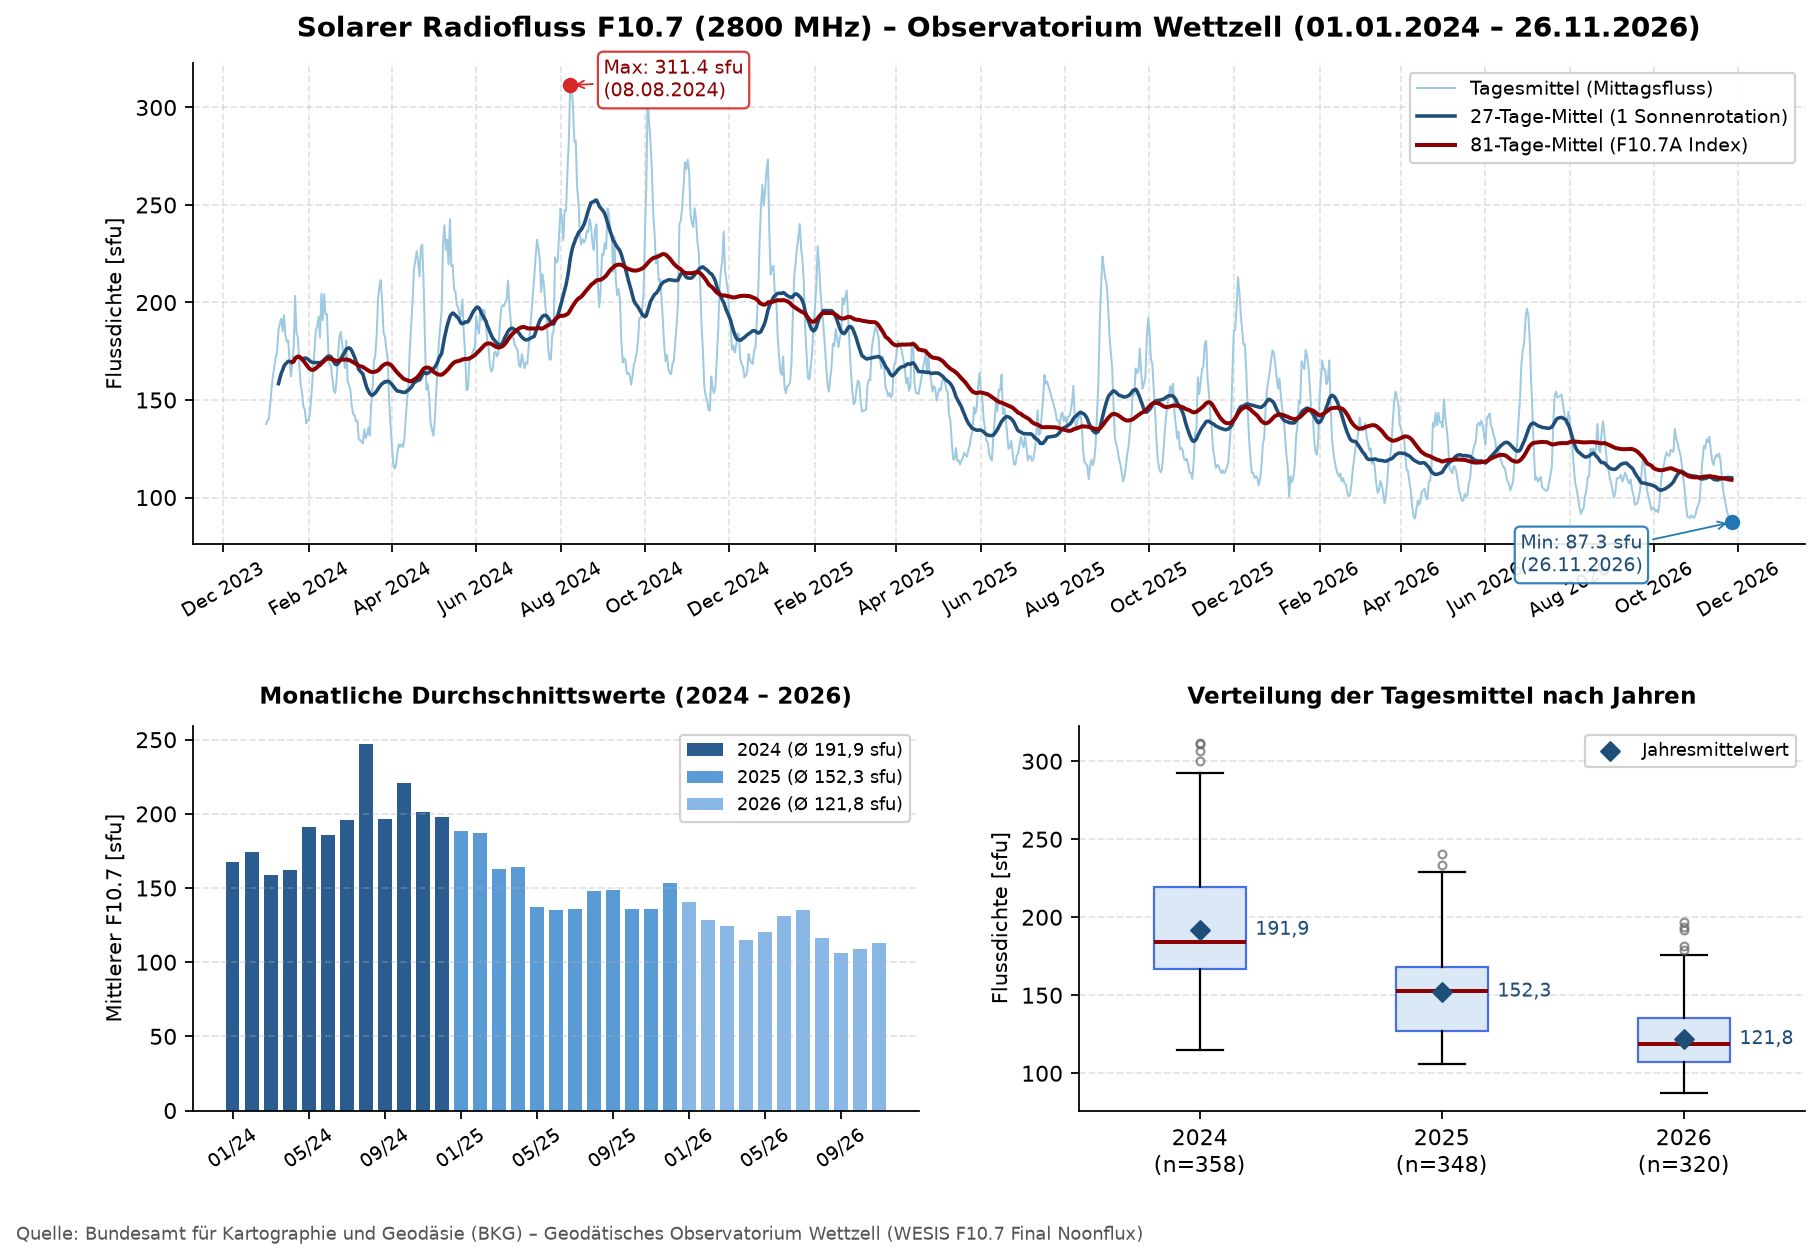
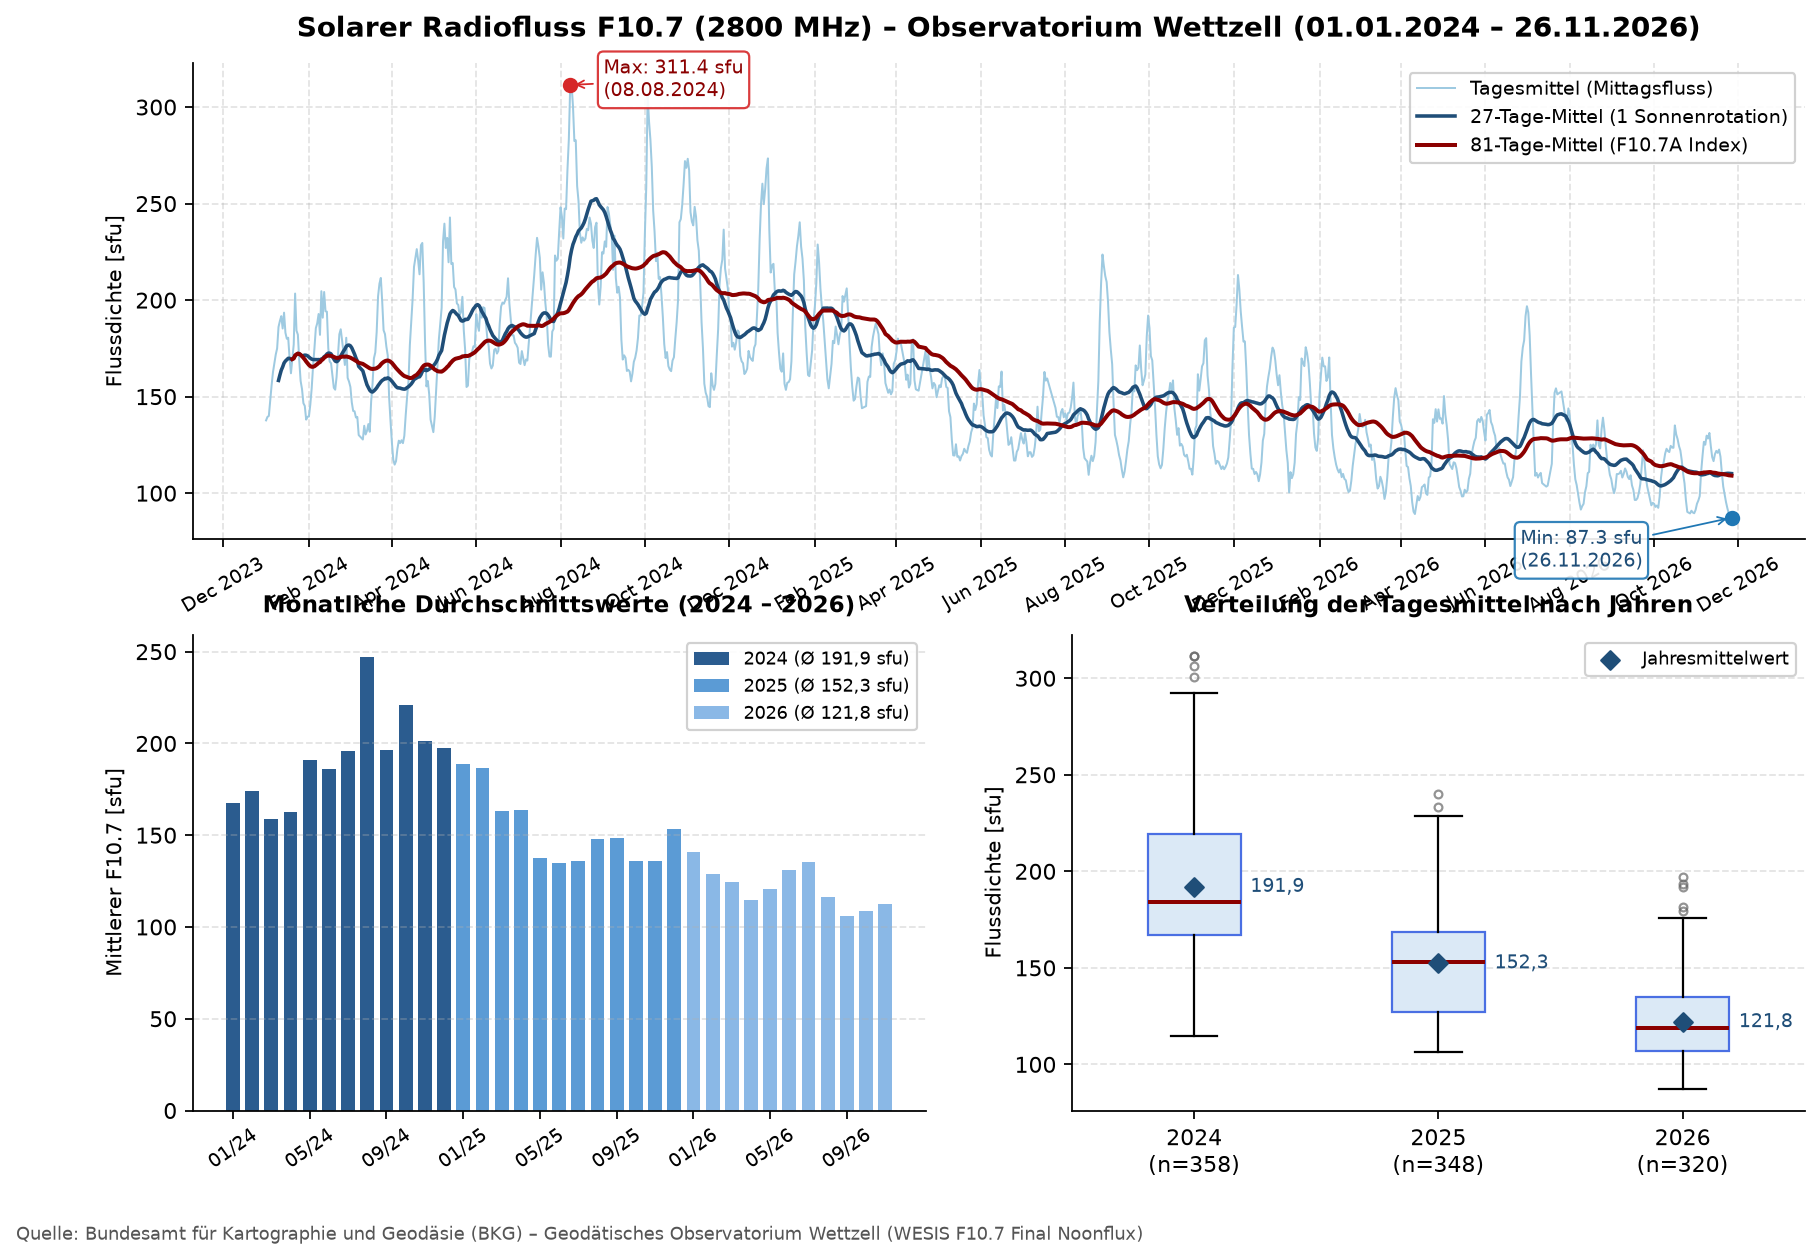
Update Solar Flux Diagramme 4a48e182cdf4c8dfc49a279186bcfab1c0fb3af5

diff --git a/index.html b/index.html
@@ -3,25 +3,39 @@
 <head>
   <meta charset="UTF-8">
   <meta name="viewport" content="width=device-width, initial-scale=1.0">
-  <title>Solar Flux Index (F10.7) – Observatorium Wettzell</title>
+  <title>Solar Flux &amp; Weltraumwetter – Observatorium Wettzell &amp; GFZ Potsdam</title>
   <style>
     body {
       font-family: -apple-system, BlinkMacSystemFont, "Segoe UI", Roboto, Arial, sans-serif;
-      max-width: 1100px;
+      max-width: 1120px;
       margin: 2rem auto;
       padding: 0 1rem;
       color: #222;
       background-color: #f8f9fa;
     }
     h1 {
-      font-size: 1.6rem;
+      font-size: 1.65rem;
       color: #1f4e78;
       margin-bottom: 0.3rem;
     }
     p.subtitle {
       color: #555;
       margin-top: 0;
+      margin-bottom: 1.2rem;
+    }
+    .status-bar {
+      display: flex;
+      flex-wrap: wrap;
+      gap: 1rem;
+      background: #eef4fa;
+      border-left: 4px solid #1f4e78;
+      padding: 0.9rem 1.2rem;
+      border-radius: 6px;
       margin-bottom: 2rem;
+      font-size: 0.95rem;
+    }
+    .status-item {
+      margin-right: 1.5rem;
     }
     .card {
       background: #fff;
@@ -46,11 +60,22 @@
   </style>
 </head>
 <body>
-  <h1>Solarer Radiofluss F10.7 (2800 MHz)</h1>
-  <p class="subtitle">Automatisch aktualisierte Auswertung – Geodätisches Observatorium Wettzell (BKG)</p>
+  <h1>Solarer Radiofluss F10.7 &amp; Weltraumwetter</h1>
+  <p class="subtitle">Automatisch aktualisierte Auswertung – Geodätisches Observatorium Wettzell (BKG) &amp; GFZ Potsdam</p>
+
+  <div class="status-bar">
+    <div class="status-item"><strong>Letzte Aktualisierung:</strong> 27.11.2026 um 21:23 Uhr (CET)</div>
+    <div class="status-item"><strong>Aktueller F10.7 (26.11.):</strong> 87.3 sfu</div>
+    <div class="status-item"><strong>Sonnenflecken (SN):</strong> 29</div>
+    <div class="status-item"><strong>Ap-Index:</strong> 4</div>
+  </div>
 
   <div class="card">
     <img src="sfu_30tage.png" alt="Solar Flux F10.7 der letzten 30 Tage">
+  </div>
+
+  <div class="card">
+    <img src="weltraumwetter_30tage.png" alt="Sonnenfleckenzahl und Geomagnetischer Ap-Index der letzten 30 Tage">
   </div>
 
   <div class="card">
@@ -62,7 +87,7 @@
   </div>
 
   <footer>
-    Datenquelle: Bundesamt für Kartographie und Geodäsie (BKG) – WESIS F10.7 Final Noonflux | Aktualisierung täglich via GitHub Actions
+    Quellen: Bundesamt für Kartographie und Geodäsie (BKG Wettzell) &amp; GFZ Helmholtz-Zentrum Potsdam | Aktualisierung täglich via GitHub Actions
   </footer>
 </body>
 </html>

diff --git a/create_chart.py b/create_chart.py
@@ -2,12 +2,12 @@ import pandas as pd
 import numpy as np
 import matplotlib.pyplot as plt
 import matplotlib.dates as mdates
+from datetime import datetime
+from zoneinfo import ZoneInfo
 
-dateiname = "clt_f107_nf_final.txt"
-
-# 1. Datei zeilenweise einlesen
+# 1. Wettzell-Daten einlesen
 zeilen = []
-with open(dateiname, "r", encoding="latin1") as f:
+with open("clt_f107_nf_final.txt", "r", encoding="latin1") as f:
     for line in f:
         line = line.strip()
         if not line or line.startswith("#"):
@@ -26,7 +26,6 @@ df["hour"] = pd.to_numeric(df["hour"], errors="coerce")
 df["sfu"] = pd.to_numeric(df["sfu"], errors="coerce")
 df = df.dropna(subset=["date", "sfu"])
 
-# Tageswerte bilden (bevorzugt 12 Uhr UTC Noonflux, sonst Tagesmittel)
 df_noon = df[df["hour"] == 12].groupby("date", as_index=False)["sfu"].mean()
 df_all = df.groupby("date", as_index=False)["sfu"].mean()
 df_daily = pd.merge(df_all, df_noon, on="date", how="left", suffixes=("_all", "_noon"))
@@ -34,10 +33,9 @@ df_daily["sfu"] = df_daily["sfu_noon"].fillna(df_daily["sfu_all"])
 df_daily = df_daily[["date", "sfu"]].sort_values("date").reset_index(drop=True)
 
 letztes_datum = df_daily["date"].max()
+aktueller_sfu = float(df_daily.loc[df_daily["date"] == letztes_datum, "sfu"].mean())
 
-# ==============================================================================
-# DIAGRAMM 1: Letzte 30 Tage
-# ==============================================================================
+# DIAGRAMM 1: Letzte 30 Tage (Wettzell F10.7)
 start_30 = letztes_datum - pd.Timedelta(days=29)
 df_30 = df_daily[df_daily["date"] >= start_30]
 
@@ -59,9 +57,7 @@ plt.tight_layout()
 plt.savefig("sfu_30tage.png")
 plt.close(fig1)
 
-# ==============================================================================
 # DIAGRAMM 2: Gesamtauswertung ab 01.01.2024
-# ==============================================================================
 df_2024 = df_daily[df_daily["date"] >= "2024-01-01"].copy().reset_index(drop=True)
 df_2024["ma27"] = df_2024["sfu"].rolling(window=27, min_periods=10).mean()
 df_2024["ma81"] = df_2024["sfu"].rolling(window=81, min_periods=20).mean()
@@ -69,13 +65,11 @@ df_2024["ma81"] = df_2024["sfu"].rolling(window=81, min_periods=20).mean()
 fig2 = plt.figure(figsize=(13, 8.5), dpi=160)
 gs = fig2.add_gridspec(2, 2, height_ratios=[1.25, 1], hspace=0.42, wspace=0.22)
 
-# --- Oben: Zeitverlauf + 27d / 81d Mittel ---
-ax_top = fig2.add_subplot(gs[0, :])
+ax_top = plt.subplot2grid((2, 2), (0, 0), colspan=2, fig=fig2)
 ax_top.plot(df_2024["date"], df_2024["sfu"], color="#9ecae1", linewidth=0.9, label="Tagesmittel (Mittagsfluss)")
 ax_top.plot(df_2024["date"], df_2024["ma27"], color="#1f4e78", linewidth=1.6, label="27-Tage-Mittel (1 Sonnenrotation)")
 ax_top.plot(df_2024["date"], df_2024["ma81"], color="#8b0000", linewidth=1.8, label="81-Tage-Mittel (F10.7A Index)")
 
-# Max & Min annotieren
 idx_max = df_2024["sfu"].idxmax()
 idx_min = df_2024["sfu"].idxmin()
 row_max = df_2024.loc[idx_max]
@@ -114,8 +108,7 @@ ax_top.spines["top"].set_visible(False)
 ax_top.spines["right"].set_visible(False)
 ax_top.legend(loc="upper right", fontsize=8.5, framealpha=0.9)
 
-# --- Unten links: Monatliche Durchschnittswerte ---
-ax_bl = fig2.add_subplot(gs[1, 0])
+ax_bl = plt.subplot2grid((2, 2), (1, 0), fig=fig2)
 df_2024["year"] = df_2024["date"].dt.year
 df_2024["ym"] = df_2024["date"].dt.to_period("M")
 monthly = df_2024.groupby(["year", "ym"], as_index=False)["sfu"].mean().sort_values("ym")
@@ -136,15 +129,14 @@ tick_pos = list(range(0, len(monthly), 4))
 tick_lbl = [monthly["ym"].iloc[i].strftime("%m/%y") for i in tick_pos]
 ax_bl.set_xticks(tick_pos)
 ax_bl.set_xticklabels(tick_lbl, rotation=35, fontsize=8.5)
-ax_bl.set_title(f"Monatliche Durchschnittswerte (2024 – {jahre[-1]})", fontsize=10.5, fontweight="bold", pad=10)
+ax_bl.set_title(f"Monatliche Durchschnittswerte (2024 – {max(jahre)})", fontsize=10.5, fontweight="bold", pad=10)
 ax_bl.set_ylabel("Mittlerer F10.7 [sfu]", fontsize=9.5)
 ax_bl.grid(axis="y", linestyle="--", alpha=0.35)
 ax_bl.spines["top"].set_visible(False)
 ax_bl.spines["right"].set_visible(False)
 ax_bl.legend(loc="upper right", fontsize=8, framealpha=0.9)
 
-# --- Unten rechts: Boxplot nach Jahren ---
-ax_br = fig2.add_subplot(gs[1, 1])
+ax_br = plt.subplot2grid((2, 2), (1, 1), fig=fig2)
 daten_jahre = [df_2024[df_2024["year"] == j]["sfu"].values for j in jahre]
 labels_jahre = [f"{j}\n(n={len(d)})" for j, d in zip(jahre, daten_jahre)]
 
@@ -179,56 +171,48 @@ fig2.text(
 
 plt.savefig("sfu_gesamt_auswertung.png", bbox_inches="tight")
 plt.close(fig2)
-print("Beide Diagramme wurden erfolgreich erstellt!")
-
-# ==============================================================================
-# DIAGRAMM 3: Historische Sonnenzyklen seit 1947 (GFZ Potsdam / Penticton)
-# ==============================================================================
-hist_rows = []
-
+# 2. GFZ-Daten einlesen (F10.7 seit 1947 + Ap-Index + Sonnenfleckenzahl SN)
+gfz_rows = []
 with open("gfz_since_1932.txt", "r", encoding="latin1") as f:
     for raw_line in f:
         line = raw_line.strip()
         if not line or line.startswith("#"):
             continue
         teile = line.split()
-        # Spalten im GFZ-Format: 0=YYYY, 1=MM, 2=DD, ..., 25=F10.7_obs, 26=F10.7_adj
         if len(teile) >= 27:
             y_str = teile.pop(0)
             m_str = teile.pop(0)
             d_str = teile.pop(0)
             if y_str.isdigit() and int(y_str) >= 1947:
-                # Nach 3x pop(0) liegt Spalte 26 (F10.7_adj) jetzt an Position 23
-                for _ in range(23):
+                for _ in range(20):
                     teile.pop(0)
-                val_str = teile.pop(0)
+                ap_str = teile.pop(0)
+                sn_str = teile.pop(0)
+                _ = teile.pop(0)
+                sfu_str = teile.pop(0)
                 try:
-                    sfu_val = float(val_str)
-                    if 50 < sfu_val < 600:
-                        hist_rows.append({
-                            "date": f"{y_str}-{m_str.zfill(2)}-{d_str.zfill(2)}",
-                            "sfu": sfu_val
-                        })
+                    gfz_rows.append({
+                        "date": f"{y_str}-{m_str.zfill(2)}-{d_str.zfill(2)}",
+                        "ap": float(ap_str),
+                        "sn": float(sn_str),
+                        "sfu": float(sfu_str)
+                    })
                 except ValueError:
                     pass
 
-print(f"GFZ-Langzeitdaten eingelesen: {len(hist_rows)} Tage ab 1947.")
+df_gfz = pd.DataFrame(gfz_rows)
+df_gfz["date"] = pd.to_datetime(df_gfz["date"], errors="coerce")
+df_gfz = df_gfz.dropna(subset=["date"])
 
-# Deine eigenen Wettzell-Tageswerte (df_daily) als aktuellste Daten anhängen
-df_wettzell_hist = df_daily[["date", "sfu"]].copy()
-df_wettzell_hist["date"] = df_wettzell_hist["date"].dt.strftime("%Y-%m-%d")
+# DIAGRAMM 3: Historische Sonnenzyklen seit 1947
+df_hist_sfu = df_gfz[(df_gfz["sfu"] > 50) & (df_gfz["sfu"] < 600)][["date", "sfu"]].copy()
+df_all_hist = pd.concat([df_hist_sfu, df_daily[["date", "sfu"]]], ignore_index=True)
 
-df_all_hist = pd.concat([pd.DataFrame(hist_rows), df_wettzell_hist], ignore_index=True)
-df_all_hist["date"] = pd.to_datetime(df_all_hist["date"], errors="coerce")
-df_all_hist = df_all_hist.dropna(subset=["date", "sfu"])
-
-# Tagesmittel und Glättung berechnen
 df_h_daily = df_all_hist.groupby("date", as_index=False)["sfu"].mean().sort_values("date").reset_index(drop=True)
 df_h_daily["ma81"] = df_h_daily["sfu"].rolling(window=81, min_periods=30, center=True).mean()
 df_h_daily["ma365"] = df_h_daily["sfu"].rolling(window=365, min_periods=150, center=True).mean()
 
 fig3, ax3 = plt.subplots(figsize=(13, 5.5), dpi=160)
-
 ax3.plot(df_h_daily["date"], df_h_daily["ma81"], color="#7fb3d5", linewidth=0.9, label="81-Tage-Mittel (F10.7A)")
 ax3.plot(df_h_daily["date"], df_h_daily["ma365"], color="#1f4e78", linewidth=2.0, label="365-Tage-Mittel (Zyklusverlauf)")
 
@@ -273,4 +257,151 @@ fig3.text(
 plt.tight_layout(rect=[0, 0.03, 1, 1])
 plt.savefig("sfu_zyklen_1947.png")
 plt.close(fig3)
-print("Historisches Zyklus-Diagramm erstellt!")
+
+# DIAGRAMM 4: Weltraumwetter der letzten 30 Tage (Sonnenflecken SN & Ap-Index)
+df_gfz_valid = df_gfz[(df_gfz["sn"] >= 0) & (df_gfz["ap"] >= 0)].sort_values("date")
+letztes_gfz = df_gfz_valid["date"].max()
+df_gfz_30 = df_gfz_valid[df_gfz_valid["date"] >= (letztes_gfz - pd.Timedelta(days=29))].copy()
+
+aktueller_sn = int(df_gfz_30["sn"].tail(1).mean())
+aktueller_ap = int(df_gfz_30["ap"].tail(1).mean())
+
+fig4, (ax_sn, ax_ap) = plt.subplots(2, 1, figsize=(11, 7), dpi=150, sharex=True)
+
+ax_sn.plot(df_gfz_30["date"], df_gfz_30["sn"], marker="o", color="#d95f02", linewidth=2, markersize=4.5)
+ax_sn.fill_between(df_gfz_30["date"], df_gfz_30["sn"], color="#d95f02", alpha=0.12)
+ax_sn.set_title(
+    f"Weltraumwetter (Letzte 30 Tage bis {letztes_gfz.strftime('%d.%m.%Y')}): Sonnenfleckenzahl (SN) & Geomagnetischer Ap-Index",
+    fontsize=12, fontweight="bold", pad=12
+)
+ax_sn.set_ylabel("Sonnenfleckenzahl [SN]", fontsize=10)
+ax_sn.grid(True, linestyle="--", alpha=0.4)
+ax_sn.spines["top"].set_visible(False)
+ax_sn.spines["right"].set_visible(False)
+
+ap_farben = ["#2ca02c" if v < 15 else ("#ff7f0e" if v < 30 else "#d62728") for v in df_gfz_30["ap"]]
+ax_ap.bar(df_gfz_30["date"], df_gfz_30["ap"], color=ap_farben, width=0.68)
+ax_ap.axhline(15, color="#ff7f0e", linestyle="--", linewidth=1, label="Unruhig (Ap ≥ 15 / Kp ≈ 3–4)")
+ax_ap.axhline(30, color="#d62728", linestyle="--", linewidth=1, label="Geomagnetischer Sturm (Ap ≥ 30 / Kp ≥ 5)")
+ax_ap.set_ylabel("Tages-Ap-Index", fontsize=10)
+ax_ap.set_xlabel("Datum (UTC)", fontsize=10)
+ax_ap.xaxis.set_major_formatter(mdates.DateFormatter("%d.%m."))
+ax_ap.xaxis.set_major_locator(mdates.DayLocator(interval=3))
+plt.xticks(rotation=45)
+ax_ap.grid(axis="y", linestyle="--", alpha=0.4)
+ax_ap.spines["top"].set_visible(False)
+ax_ap.spines["right"].set_visible(False)
+ax_ap.legend(loc="upper right", fontsize=8.5, framealpha=0.9)
+
+fig4.text(
+    0.01, 0.01,
+    "Quelle: GFZ Helmholtz-Zentrum Potsdam (Kp / Ap & SILSO Sunspot Number SN)",
+    fontsize=8, color="#555555"
+)
+
+plt.tight_layout(rect=[0, 0.03, 1, 1])
+plt.savefig("weltraumwetter_30tage.png")
+plt.close(fig4)
+
+# 3. index.html mit Zeitstempel & Tageswerten erzeugen
+jetzt_de = datetime.now(ZoneInfo("Europe/Berlin")).strftime("%d.%m.%Y um %H:%M Uhr (%Z)")
+
+html_inhalt = f"""<!DOCTYPE html>
+<html lang="de">
+<head>
+  <meta charset="UTF-8">
+  <meta name="viewport" content="width=device-width, initial-scale=1.0">
+  <title>Solar Flux &amp; Weltraumwetter – Observatorium Wettzell &amp; GFZ Potsdam</title>
+  <style>
+    body {{
+      font-family: -apple-system, BlinkMacSystemFont, "Segoe UI", Roboto, Arial, sans-serif;
+      max-width: 1120px;
+      margin: 2rem auto;
+      padding: 0 1rem;
+      color: #222;
+      background-color: #f8f9fa;
+    }}
+    h1 {{
+      font-size: 1.65rem;
+      color: #1f4e78;
+      margin-bottom: 0.3rem;
+    }}
+    p.subtitle {{
+      color: #555;
+      margin-top: 0;
+      margin-bottom: 1.2rem;
+    }}
+    .status-bar {{
+      display: flex;
+      flex-wrap: wrap;
+      gap: 1rem;
+      background: #eef4fa;
+      border-left: 4px solid #1f4e78;
+      padding: 0.9rem 1.2rem;
+      border-radius: 6px;
+      margin-bottom: 2rem;
+      font-size: 0.95rem;
+    }}
+    .status-item {{
+      margin-right: 1.5rem;
+    }}
+    .card {{
+      background: #fff;
+      border: 1px solid #e0e0e0;
+      border-radius: 8px;
+      padding: 1.2rem;
+      margin-bottom: 2rem;
+      box-shadow: 0 2px 4px rgba(0,0,0,0.04);
+    }}
+    .card img {{
+      max-width: 100%;
+      height: auto;
+      display: block;
+      margin: 0 auto;
+    }}
+    footer {{
+      font-size: 0.85rem;
+      color: #666;
+      text-align: center;
+      margin-top: 2rem;
+    }}
+  </style>
+</head>
+<body>
+  <h1>Solarer Radiofluss F10.7 &amp; Weltraumwetter</h1>
+  <p class="subtitle">Automatisch aktualisierte Auswertung – Geodätisches Observatorium Wettzell (BKG) &amp; GFZ Potsdam</p>
+
+  <div class="status-bar">
+    <div class="status-item"><strong>Letzte Aktualisierung:</strong> {jetzt_de}</div>
+    <div class="status-item"><strong>Aktueller F10.7 ({letztes_datum.strftime('%d.%m.')}):</strong> {aktueller_sfu:.1f} sfu</div>
+    <div class="status-item"><strong>Sonnenflecken (SN):</strong> {aktueller_sn}</div>
+    <div class="status-item"><strong>Ap-Index:</strong> {aktueller_ap}</div>
+  </div>
+
+  <div class="card">
+    <img src="sfu_30tage.png" alt="Solar Flux F10.7 der letzten 30 Tage">
+  </div>
+
+  <div class="card">
+    <img src="weltraumwetter_30tage.png" alt="Sonnenfleckenzahl und Geomagnetischer Ap-Index der letzten 30 Tage">
+  </div>
+
+  <div class="card">
+    <img src="sfu_gesamt_auswertung.png" alt="Solar Flux F10.7 Gesamtauswertung seit 01.01.2024">
+  </div>
+
+  <div class="card">
+    <img src="sfu_zyklen_1947.png" alt="Historischer Solar Flux F10.7 seit 1947 – Sonnenzyklen 18 bis 25">
+  </div>
+
+  <footer>
+    Quellen: Bundesamt für Kartographie und Geodäsie (BKG Wettzell) &amp; GFZ Helmholtz-Zentrum Potsdam | Aktualisierung täglich via GitHub Actions
+  </footer>
+</body>
+</html>
+"""
+
+with open("index.html", "w", encoding="utf-8") as f:
+    f.write(html_inhalt)
+
+print("Alle 4 Diagramme und die aktualisierte index.html wurden erfolgreich erstellt!")
